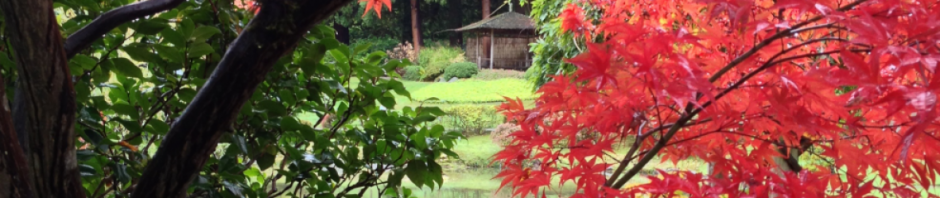
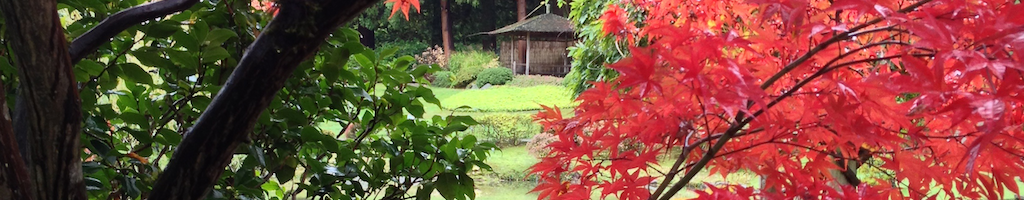
Tweak the header image so it no longer twitches on resize.

diff --git a/docs/assets/css/site.css b/docs/assets/css/site.css
@@ -168,7 +168,7 @@ div.header-image {
   min-height: 80px;
   max-height: 200px;
   background-image: url(/assets/images/header.png);
-  background-position-x: right;
+  background-position-x: center;
   background-repeat: no-repeat;
 }
 
@@ -230,10 +230,7 @@ div.header-image {
   }
 }
 
-@media screen and (min-width: 1024px) {
-}
-
-@media screen and (min-width: 640px) and (max-width: 1024px) {
+@media screen and (max-width: 1024px) {
 }
 
 @media screen and (max-width: 640px) {
@@ -277,10 +274,6 @@ div.header-image {
     pre {
       max-width: 90vw;
     }
-  }
-
-  div.header-image {
-    background-position-x: center;
   }
 }
 
